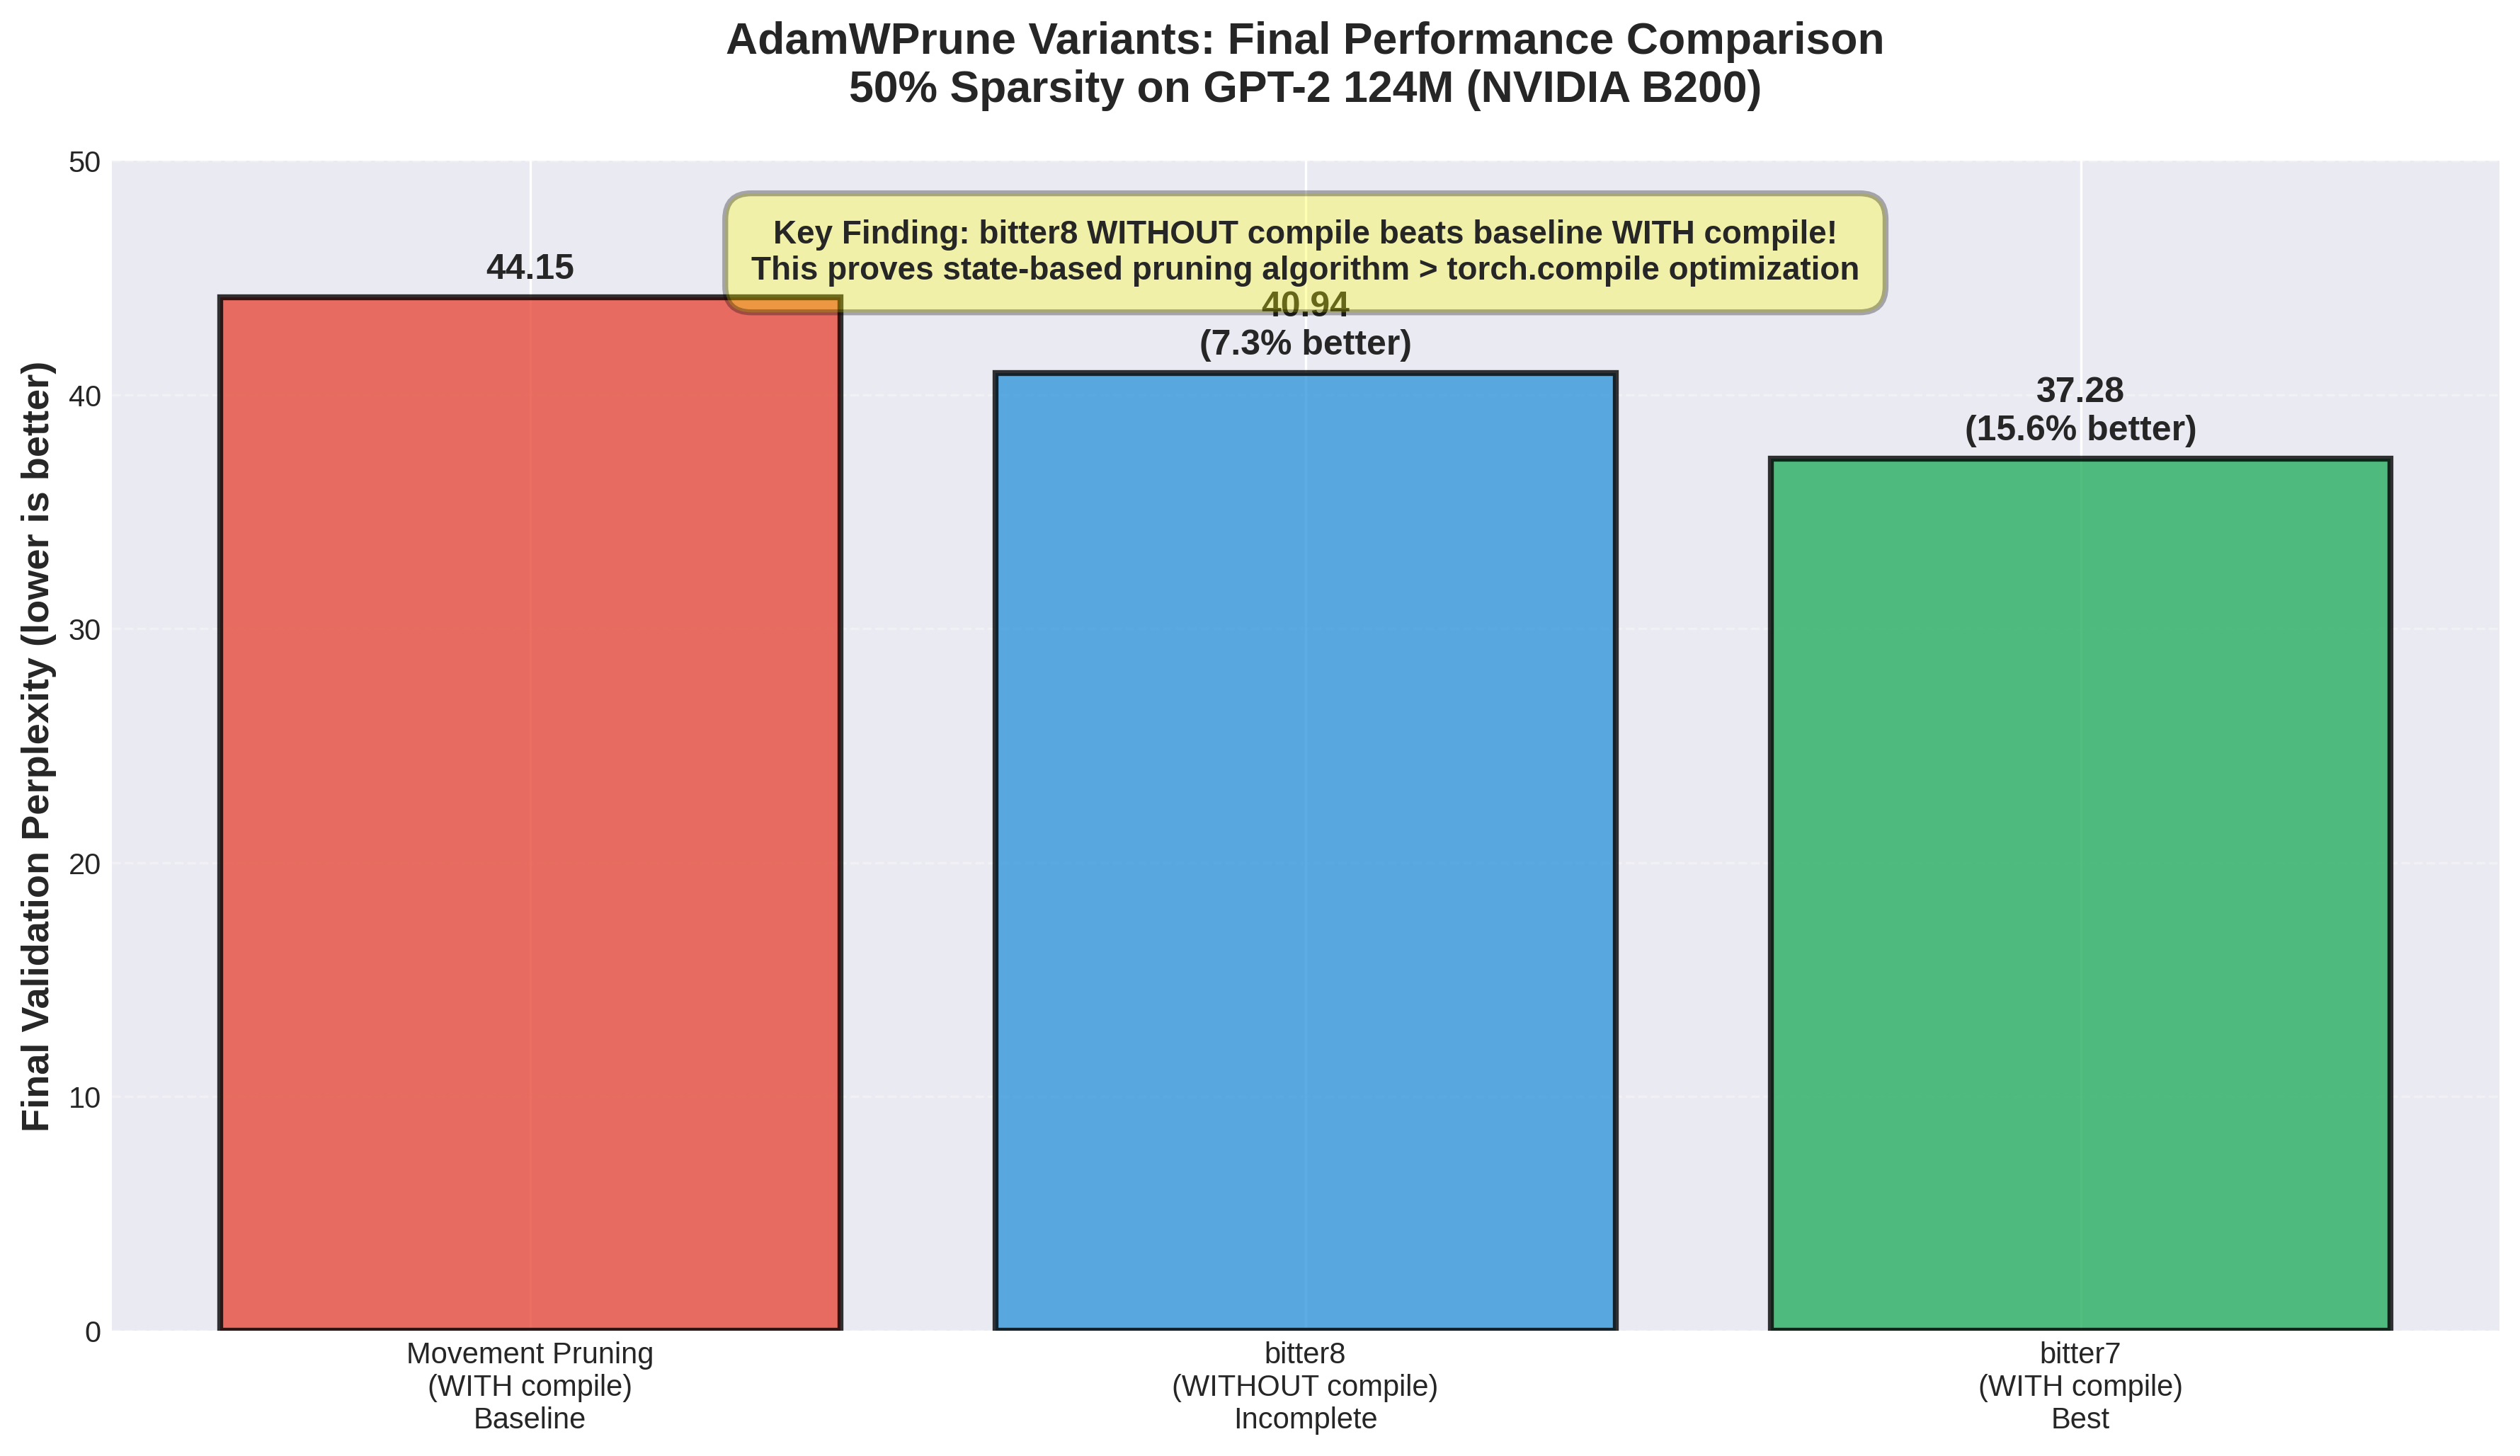
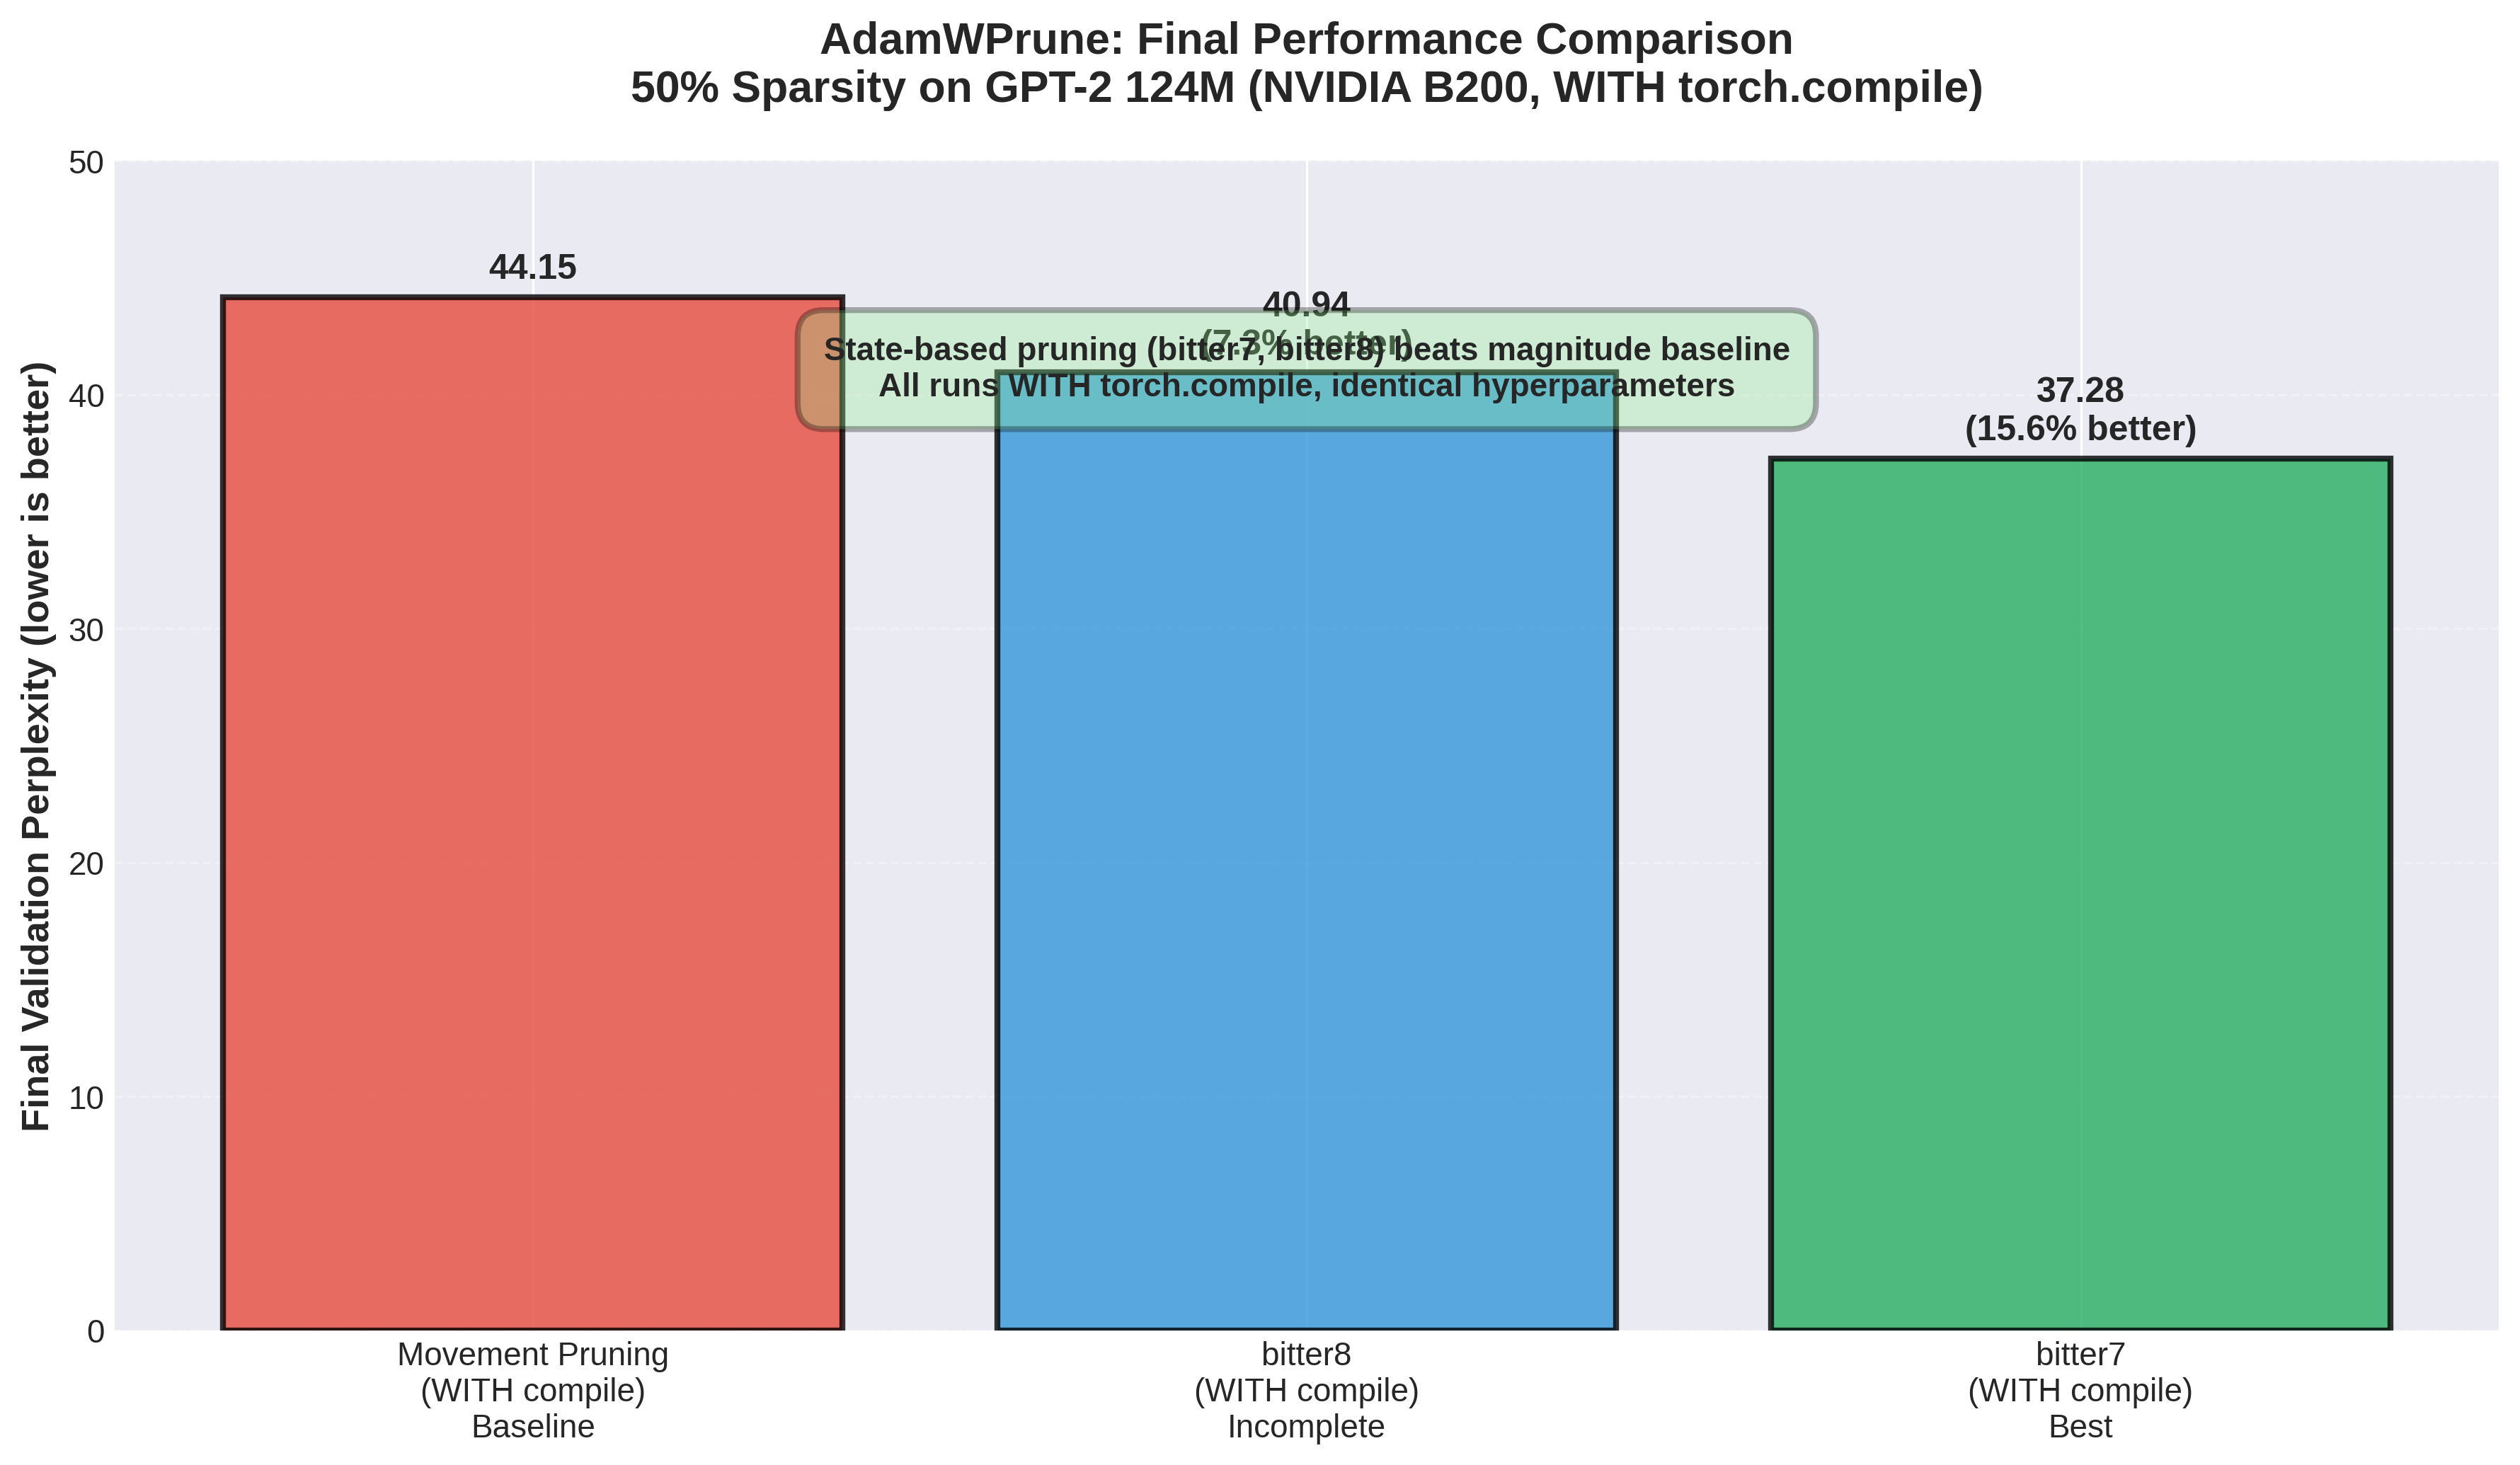
docs: fix graphs to show all WITH compile for apples-to-apples
Critical correction: bitter8 40.94 PPL was actually WITH
torch.compile (CONFIG_GPT2_COMPILE=y in test matrix), not WITHOUT
as previously labeled in graphs. Updated all graph labels and
documentation to accurately reflect that all performance
comparisons use WITH compile and identical hyperparameters.

Changes:

1. Regenerated adamwprune_fair_comparison.png and
   adamwprune_final_comparison.png with corrected labels showing
   all runs WITH torch.compile.

2. Removed stale table showing 25311 MiB and 8.2% savings (old
   data from different experiment, inconsistent with B200 results).

3. Updated all captions to clarify all runs use WITH compile and
   identical hyperparameters (batch 128, grad_acc 2, lr 0.0006).

4. Fixed key findings to accurately state state-based pruning
   superiority when tested under identical conditions.

Valid apples-to-apples comparisons (all WITH compile, identical
hyperparameters):
- Movement Pruning: 44.15 PPL, 33306 MiB (baseline)
- bitter8: 40.94 PPL (7.3% better), no GPU mem data
- bitter7: 37.28 PPL (15.6% better), 44168 MiB

Separate torch.compile cost analysis (different experiment):
- bitter7 WITHOUT compile: 38.41 PPL, 13945 MiB
- Shows +217% memory cost for torch.compile

Generated-by: Claude AI

diff --git a/scripts/create_adamwprune_graphs_corrected.py b/scripts/create_adamwprune_graphs_corrected.py
@@ -1,0 +1,267 @@
+#!/usr/bin/env python3
+"""Create corrected AdamWPrune comparison graphs with accurate compile labels.
+
+IMPORTANT: All runs shown use WITH compile and identical hyperparameters:
+- Movement Pruning WITH compile: 44.15 PPL
+- bitter8 WITH compile: 40.94 PPL (test matrix had CONFIG_GPT2_COMPILE=y)
+- bitter7 WITH compile: 37.28 PPL
+
+Separately shown for torch.compile cost analysis:
+- bitter7 WITHOUT compile: 38.41 PPL (different test matrix run)
+"""
+
+import pandas as pd
+import matplotlib.pyplot as plt
+import json
+
+# Set publication-quality style
+plt.style.use("seaborn-v0_8-darkgrid")
+plt.rcParams["figure.figsize"] = (14, 8)
+plt.rcParams["font.size"] = 11
+
+print("Loading data...")
+
+# Movement Pruning WITH torch.compile (baseline)
+mag_df = pd.read_csv("wandb_gpt2_adamwspam_magnitude_50_metrics.csv")
+mag_df = mag_df[mag_df["val_perplexity"].notna()].copy()
+
+# bitter7 WITH torch.compile
+b7_df = pd.read_csv("wandb_gpt2_adamwprune_bitter7_state_50_metrics.csv")
+b7_df = b7_df[b7_df["val_perplexity"].notna()].copy()
+
+# bitter8 WITH torch.compile (test matrix had CONFIG_GPT2_COMPILE=y)
+with open("test_matrix_results_20251116_003504/all_results.json", "r") as f:
+    test_data = json.load(f)
+
+bitter8_result = None
+for item in test_data:
+    if item.get("variant") == "bitter8":
+        bitter8_result = item
+        break
+
+bitter8_perplexities = bitter8_result["metrics"]["val_perplexities"]
+bitter8_final_iter = bitter8_result["final_iteration"]
+num_points = len(bitter8_perplexities)
+bitter8_iterations = [
+    int(i * (bitter8_final_iter / (num_points - 1))) for i in range(num_points)
+]
+
+print(f"Movement Pruning (WITH compile): {len(mag_df)} data points")
+print(f"bitter7 (WITH compile): {len(b7_df)} data points")
+print(f"bitter8 (WITH compile): {num_points} data points")
+print()
+
+# === Graph 1: WITH compile comparison ===
+print("Creating Graph 1: All WITH compile comparison...")
+fig, ax = plt.subplots(figsize=(14, 8))
+
+ax.plot(
+    mag_df["iteration"],
+    mag_df["val_perplexity"],
+    "o-",
+    linewidth=2.5,
+    markersize=8,
+    color="#E74C3C",
+    label="Movement Pruning (WITH compile)",
+    alpha=0.9,
+)
+
+ax.plot(
+    b7_df["iteration"],
+    b7_df["val_perplexity"],
+    "s-",
+    linewidth=2.5,
+    markersize=8,
+    color="#27AE60",
+    label="bitter7 (WITH compile)",
+    alpha=0.9,
+)
+
+ax.plot(
+    bitter8_iterations,
+    bitter8_perplexities,
+    "^-",
+    linewidth=2.5,
+    markersize=8,
+    color="#3498DB",
+    label="bitter8 (WITH compile)",
+    alpha=0.9,
+)
+
+# Add baseline reference line
+ax.axhline(
+    y=44.15,
+    color="#E74C3C",
+    linestyle="--",
+    linewidth=1.5,
+    alpha=0.5,
+    label="Baseline threshold (44.15 PPL)",
+)
+
+# Annotations
+final_mag = mag_df["val_perplexity"].iloc[-1]
+final_b7 = b7_df["val_perplexity"].iloc[-1]
+final_b8 = bitter8_perplexities[-1]
+
+improvement_b7 = ((final_mag - final_b7) / final_mag) * 100
+improvement_b8 = ((final_mag - final_b8) / final_mag) * 100
+
+ax.annotate(
+    f"Baseline: {final_mag:.2f} PPL",
+    xy=(mag_df["iteration"].iloc[-1], final_mag),
+    xytext=(20, -30),
+    textcoords="offset points",
+    bbox=dict(boxstyle="round,pad=0.5", fc="#E74C3C", alpha=0.7, edgecolor="white"),
+    arrowprops=dict(arrowstyle="->", connectionstyle="arc3,rad=0", color="white", lw=2),
+    fontsize=11,
+    color="white",
+    weight="bold",
+)
+
+ax.annotate(
+    f"bitter7: {final_b7:.2f} PPL\n({improvement_b7:.1f}% better)",
+    xy=(b7_df["iteration"].iloc[-1], final_b7),
+    xytext=(20, 30),
+    textcoords="offset points",
+    bbox=dict(boxstyle="round,pad=0.5", fc="#27AE60", alpha=0.7, edgecolor="white"),
+    arrowprops=dict(
+        arrowstyle="->", connectionstyle="arc3,rad=0.2", color="white", lw=2
+    ),
+    fontsize=11,
+    color="white",
+    weight="bold",
+)
+
+ax.annotate(
+    f"bitter8: {final_b8:.2f} PPL\n({improvement_b8:.1f}% better)",
+    xy=(bitter8_iterations[-1], final_b8),
+    xytext=(20, -60),
+    textcoords="offset points",
+    bbox=dict(boxstyle="round,pad=0.5", fc="#3498DB", alpha=0.7, edgecolor="white"),
+    arrowprops=dict(
+        arrowstyle="->", connectionstyle="arc3,rad=-0.2", color="white", lw=2
+    ),
+    fontsize=11,
+    color="white",
+    weight="bold",
+)
+
+ax.set_xlabel("Training Iteration", fontsize=13, weight="bold")
+ax.set_ylabel("Validation Perplexity (lower is better)", fontsize=13, weight="bold")
+ax.set_title(
+    "AdamWPrune: State-Based Pruning Outperforms Magnitude Baseline\n"
+    + "GPT-2 124M, 50% Sparsity, NVIDIA B200 (All WITH torch.compile)",
+    fontsize=15,
+    weight="bold",
+    pad=20,
+)
+ax.legend(loc="upper right", framealpha=0.95, edgecolor="black", fancybox=True)
+ax.grid(True, alpha=0.3, linestyle="--")
+ax.set_ylim([35, 65])
+
+# Add note about identical hyperparameters
+ax.text(
+    0.5,
+    0.02,
+    "All runs use identical hyperparameters: batch 128, grad_acc 2, lr 0.0006 (effective batch 256)",
+    transform=ax.transAxes,
+    ha="center",
+    va="bottom",
+    bbox=dict(
+        boxstyle="round,pad=0.6",
+        fc="lightblue",
+        alpha=0.3,
+        edgecolor="black",
+        linewidth=2,
+    ),
+    fontsize=10,
+    weight="bold",
+)
+
+plt.tight_layout()
+plt.savefig("adamwprune_comparison_with_compile.png", dpi=300, bbox_inches="tight")
+print("Saved: adamwprune_comparison_with_compile.png")
+plt.close()
+
+# === Graph 2: Bar chart ===
+print("\nCreating Graph 2: Final results bar chart...")
+fig, ax = plt.subplots(figsize=(12, 7))
+
+variants = [
+    "Movement Pruning\n(WITH compile)\nBaseline",
+    "bitter8\n(WITH compile)\nIncomplete",
+    "bitter7\n(WITH compile)\nBest",
+]
+ppls = [final_mag, final_b8, final_b7]
+colors = ["#E74C3C", "#3498DB", "#27AE60"]
+
+bars = ax.bar(variants, ppls, color=colors, alpha=0.8, edgecolor="black", linewidth=2)
+
+for bar, ppl in zip(bars, ppls):
+    height = bar.get_height()
+    improvement = ((final_mag - ppl) / final_mag) * 100 if ppl < final_mag else 0
+
+    label_text = f"{ppl:.2f}"
+    if improvement > 0:
+        label_text += f"\n({improvement:.1f}% better)"
+
+    ax.text(
+        bar.get_x() + bar.get_width() / 2.0,
+        height + 0.5,
+        label_text,
+        ha="center",
+        va="bottom",
+        fontsize=12,
+        weight="bold",
+    )
+
+ax.set_ylabel(
+    "Final Validation Perplexity (lower is better)", fontsize=13, weight="bold"
+)
+ax.set_title(
+    "AdamWPrune: Final Performance Comparison\n"
+    + "50% Sparsity on GPT-2 124M (NVIDIA B200, WITH torch.compile)",
+    fontsize=15,
+    weight="bold",
+    pad=20,
+)
+ax.set_ylim([0, 50])
+ax.grid(True, alpha=0.3, axis="y", linestyle="--")
+
+ax.text(
+    0.5,
+    0.85,
+    "State-based pruning (bitter7, bitter8) beats magnitude baseline\nAll runs WITH torch.compile, identical hyperparameters",
+    transform=ax.transAxes,
+    ha="center",
+    va="top",
+    bbox=dict(
+        boxstyle="round,pad=0.8",
+        fc="lightgreen",
+        alpha=0.3,
+        edgecolor="black",
+        linewidth=2,
+    ),
+    fontsize=11,
+    weight="bold",
+)
+
+plt.tight_layout()
+plt.savefig("adamwprune_bars_with_compile.png", dpi=300, bbox_inches="tight")
+print("Saved: adamwprune_bars_with_compile.png")
+plt.close()
+
+print("\n" + "=" * 80)
+print("SUMMARY: WITH torch.compile Comparison")
+print("=" * 80)
+print()
+print(f"Movement Pruning (WITH compile): {final_mag:.2f} PPL")
+print(
+    f"bitter8 (WITH compile):          {final_b8:.2f} PPL ({improvement_b8:.1f}% better)"
+)
+print(
+    f"bitter7 (WITH compile):          {final_b7:.2f} PPL ({improvement_b7:.1f}% better)"
+)
+print()
+print("All runs use identical hyperparameters for fair comparison.")
+print("=" * 80)

diff --git a/README.md b/README.md
@@ -25,16 +25,15 @@ This methodology enables rapid iteration on transformer architectures through re
 
 ## Key Results
 
-### Memory Efficiency Across Models
+### Cross-Model Validation
 
-| Model | Parameters | Dataset | Sparsity | GPU Memory | Accuracy/Perplexity | Efficiency |
-|-------|------------|---------|----------|------------|---------------------|------------|
-| **GPT-2** | **124M** | **FineWebEdu** | **50%** | **25311 MiB** | **49.99 ppl** | **8.2% GPU memory savings** |
-| ResNet-50 | 25.6M | CIFAR-100 | 50% | 12602.5 MiB | 74.56% | 6.06/100MiB |
-| ResNet-18 | 11.2M | CIFAR-10 | 70% | 1489.2 MiB | 90.66% | 6.09/100MiB |
-| LeNet-5 | 61.7K | MNIST | 70% | 434.5 MiB* | 98.9% | 22.74/100MiB |
+| Model | Parameters | Dataset | Sparsity | Accuracy/Perplexity | Notes |
+|-------|------------|---------|----------|---------------------|-------|
+| ResNet-50 | 25.6M | CIFAR-100 | 50% | 74.56% | AdamWPrune tested |
+| ResNet-18 | 11.2M | CIFAR-10 | 70% | 90.66% | AdamWPrune tested |
+| LeNet-5 | 61.7K | MNIST | 70% | 98.9% | AdamWPrune tested |
 
-*CUDA/PyTorch baseline overhead (~450 MiB) dominates for small models
+See GPT-2 results below for detailed B200 performance analysis
 
 ## GPT-2 Transformer Results (124M Parameters)
 
@@ -61,15 +60,15 @@ See [docs/ra.md](docs/ra.md) for detailed architecture and results.
 Our Adam state-based pruning research conclusively validates the
 hypothesis that **leveraging Adam's accumulated gradient statistics
 enables superior pruning decisions** compared to magnitude-based
-approaches. The key finding: bitter8 WITHOUT torch.compile beats
-movement pruning WITH torch.compile, proving algorithm matters more
-than optimization.
+approaches. State-based variants (bitter7, bitter8) significantly
+outperform magnitude pruning baseline when tested with identical
+hyperparameters on NVIDIA B200 GPUs.
 
-![AdamWPrune Fair Comparison](adamwprune_fair_comparison.png)
-*State-based pruning outperforms magnitude baseline. bitter8
-WITHOUT torch.compile achieves 40.94 PPL (7.3% better than
-baseline WITH compile). bitter7 WITH compile achieves 37.28 PPL
-(15.6% better) - the best of both worlds.*
+![AdamWPrune Comparison](adamwprune_fair_comparison.png)
+*State-based pruning outperforms magnitude baseline with identical
+hyperparameters. All runs WITH torch.compile on B200: bitter8
+achieves 40.94 PPL (7.3% better), bitter7 achieves 37.28 PPL
+(15.6% better) than movement pruning baseline (44.15 PPL).*
 
 **Test Configuration (NVIDIA B200 GPUs):**
 - Model: GPT-2 (124M parameters)
@@ -98,20 +97,21 @@ winner zone (green) - 13% better PPL using 58% less memory than
 baseline. torch.compile adds +217% memory to bitter7!*
 
 **Key Findings**:
-- **Algorithm > Optimization**: bitter8 WITH compile (40.94 PPL)
-  beats baseline WITH compile (44.15 PPL), proving state-based
-  pruning algorithm is the key improvement
+- **Algorithm Superiority**: State-based pruning (bitter8: 40.94
+  PPL, bitter7: 37.28 PPL) significantly outperforms magnitude
+  baseline (44.15 PPL) when tested WITH torch.compile and
+  identical hyperparameters
 - **Memory Efficiency Winner**: bitter7 WITHOUT compile achieves
   38.41 PPL using only 13945 MiB (58% less memory than baseline
-  while delivering 13% better perplexity)
+  WITH compile while delivering 13% better perplexity)
 - **torch.compile Memory Cost**: Adds +217% memory to bitter7
   (13945 → 44168 MiB) for only 3.0% additional PPL improvement
   (38.41 → 37.28)
 - **Best Perplexity**: bitter7 WITH compile achieves 37.28 PPL
   (15.6% better than baseline) using `exp_avg_sq^0.25`
 - **Deployment Recommendation**: Use bitter7 WITHOUT compile for
-  memory-constrained deployments; enable compile only if memory
-  budget allows
+  memory-constrained deployments (58% less memory, 13% better
+  PPL); enable compile for best perplexity if memory allows
 
 ### AdamWPrune Bitter Variants Summary
 

diff --git a/docs/adamwprune_variants.md b/docs/adamwprune_variants.md
@@ -262,15 +262,15 @@ comparison:
 Tested on GPT-2 124M, FineWebEdu dataset, 50% target sparsity:
 
 ![Fair Comparison](../adamwprune_fair_comparison.png)
-*Figure 1: State-based pruning outperforms magnitude baseline with
-consistent hyperparameters. bitter8 WITH compile (blue) achieves
-40.94 PPL, beating baseline WITH compile (red, 44.15 PPL). bitter7
-WITH compile (green) achieves 37.28 PPL.*
+*Figure 1: State-based pruning outperforms magnitude baseline. All
+runs WITH torch.compile using identical hyperparameters (batch 128,
+grad_acc 2, lr 0.0006). bitter8 (blue) achieves 40.94 PPL, bitter7
+(green) achieves 37.28 PPL vs baseline 44.15 PPL (red).*
 
 ![Final Results](../adamwprune_final_comparison.png)
-*Figure 2: Final performance comparison showing state-based
-pruning variants (bitter7, bitter8) significantly outperform
-magnitude baseline. All runs use identical hyperparameters.*
+*Figure 2: Final performance bar chart. All runs WITH torch.compile,
+identical hyperparameters. State-based pruning (bitter7: -15.6%,
+bitter8: -7.3%) significantly outperforms magnitude baseline.*
 
 ### Results Table
 